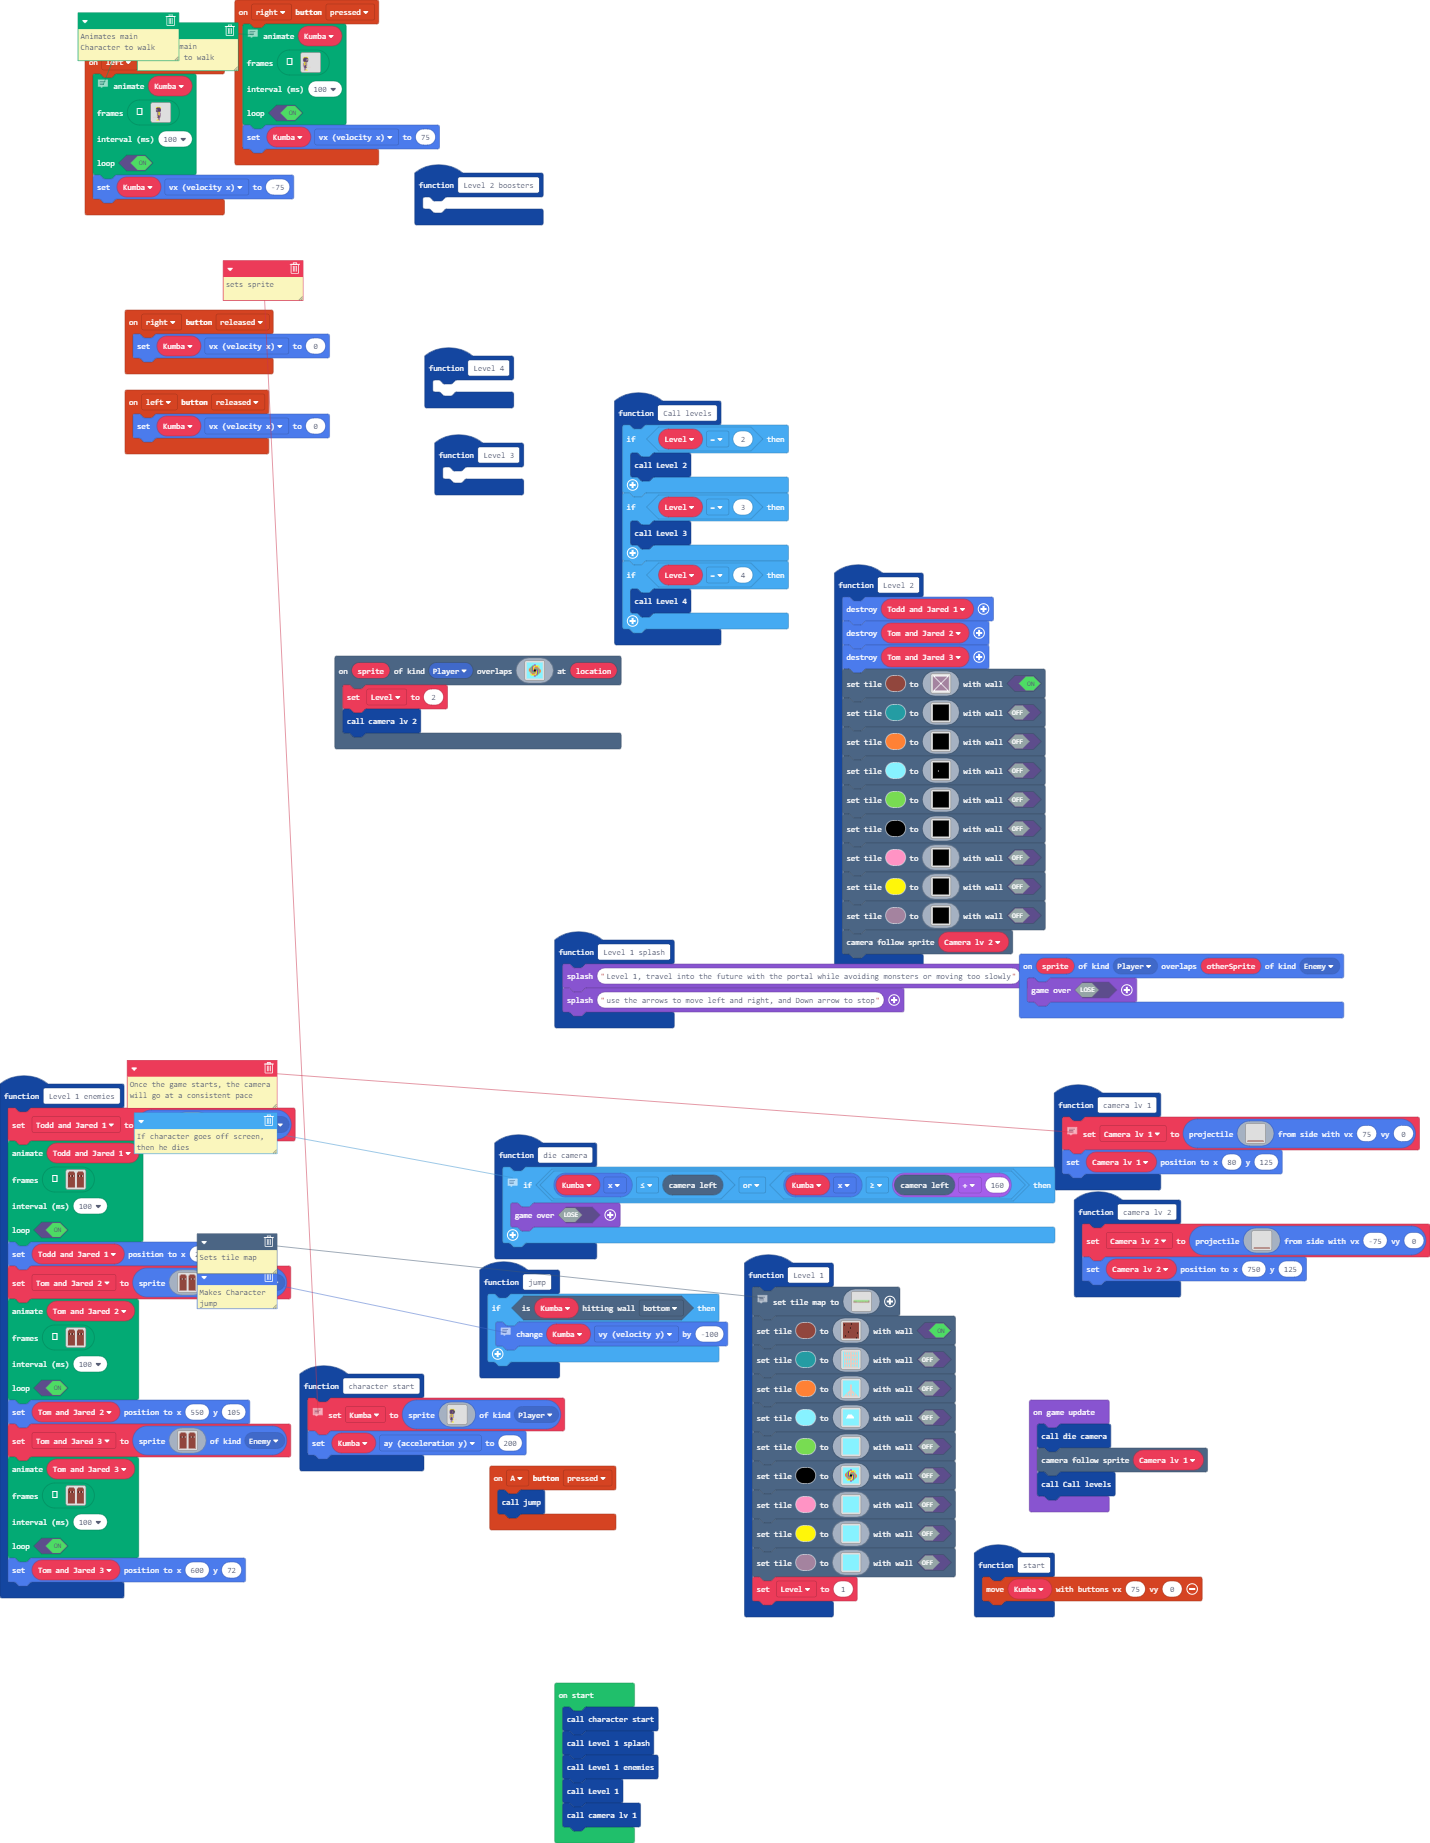
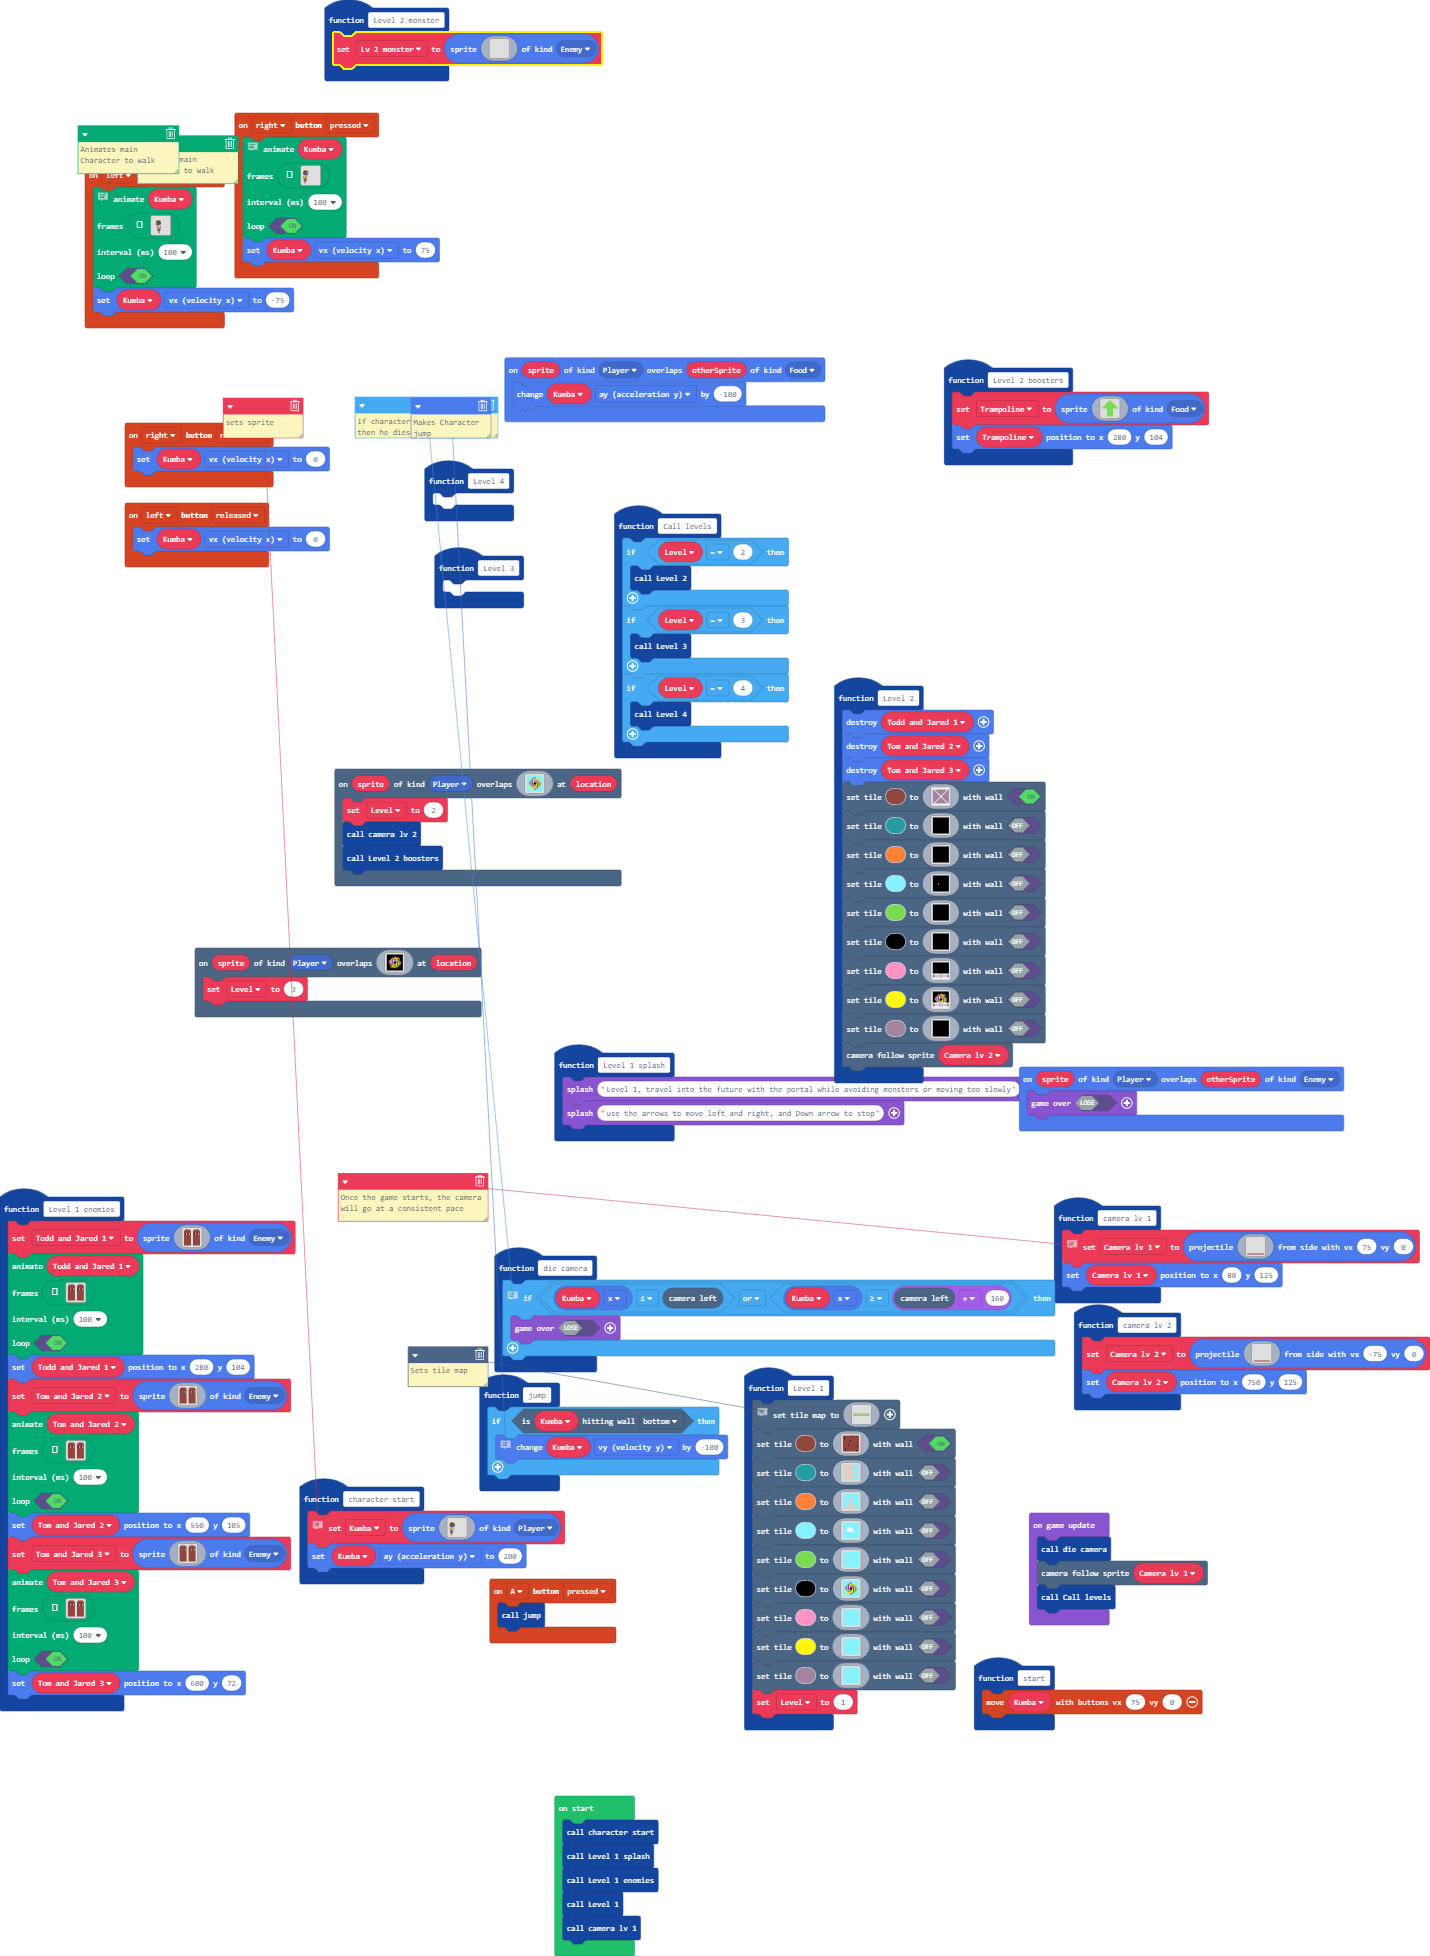
Update main.blocks, main.ts

diff --git a/main.ts b/main.ts
@@ -50,6 +50,26 @@ function die_camera () {
         game.over(false)
     }
 }
+function Level_2_monster () {
+    Lv_2_monster = sprites.create(img`
+. . . . . . . . . . . . . . . . 
+. . . . . . . . . . . . . . . . 
+. . . . . . . . . . . . . . . . 
+. . . . . . . . . . . . . . . . 
+. . . . . . . . . . . . . . . . 
+. . . . . . . . . . . . . . . . 
+. . . . . . . . . . . . . . . . 
+. . . . . . . . . . . . . . . . 
+. . . . . . . . . . . . . . . . 
+. . . . . . . . . . . . . . . . 
+. . . . . . . . . . . . . . . . 
+. . . . . . . . . . . . . . . . 
+. . . . . . . . . . . . . . . . 
+. . . . . . . . . . . . . . . . 
+. . . . . . . . . . . . . . . . 
+. . . . . . . . . . . . . . . . 
+`, SpriteKind.Enemy)
+}
 scene.onOverlapTile(SpriteKind.Player, img`
 9 9 9 9 9 9 9 9 9 9 9 9 9 9 9 9 
 9 9 9 9 9 9 9 9 9 9 9 9 9 9 9 9 
@@ -70,6 +90,7 @@ scene.onOverlapTile(SpriteKind.Player, img`
 `, function (sprite, location) {
     Level = 2
     camera_lv_2()
+    Level_2_boosters()
 })
 function character_start () {
     // sets sprite
@@ -251,6 +272,26 @@ d d d d d d d d 5 f c c c c f . . . . . . . . . . . . . . . . .
     )
     Kumba.vx = -75
 })
+scene.onOverlapTile(SpriteKind.Player, img`
+f f f f f f f f f f f f f f f f 
+f f f f f f f f f f f f f f f f 
+f f f f f f f a a f f f f f f f 
+f f f f f 7 a 5 5 5 5 5 f f f f 
+f f f f 7 a 5 f 4 4 4 f 5 f f f 
+f f f b 7 a 5 4 b b b 4 f f f f 
+f f 4 b 7 a 5 b 7 7 7 b 4 f f f 
+f f 4 b 7 a 5 f f a a 7 b 4 f f 
+f f 4 b 7 a a f f 5 a 7 b 4 f f 
+f f f 4 b 7 7 7 b 5 a 7 b 4 f f 
+f f f f 4 b b b 4 5 a 7 b f f f 
+f f f 5 f 4 4 4 f 5 a 7 f f f f 
+f f f f 5 5 5 5 5 a 7 f f f f f 
+f f f f f f f a a f f f f f f f 
+f f f f f f f f f f f f f f f f 
+f f f f f f f f f f f f f f f f 
+`, function (sprite, location) {
+    Level = 3
+})
 controller.left.onEvent(ControllerButtonEvent.Released, function () {
     Kumba.vx = 0
 })
@@ -378,29 +419,29 @@ f f f f f f f f f f f f f f f f
 f f f f f f f f f f f f f f f f 
 f f f f f f f f f f f f f f f f 
 f f f f f f f f f f f f f f f f 
-f f f f f f f f f f f f f f f f 
-f f f f f f f f f f f f f f f f 
-f f f f f f f f f f f f f f f f 
-f f f f f f f f f f f f f f f f 
-f f f f f f f f f f f f f f f f 
+1 1 1 1 1 1 1 1 1 1 1 1 1 1 1 1 
+b b 1 1 1 1 b b b b 1 1 1 1 b b 
+b b b b b b 1 1 1 1 b b b b b b 
+b b 1 1 1 1 b b b b 1 1 1 1 b b 
+1 1 1 1 1 1 1 1 1 1 1 1 1 1 1 1 
 `, false)
     scene.setTile(5, img`
 f f f f f f f f f f f f f f f f 
 f f f f f f f f f f f f f f f f 
-f f f f f f f f f f f f f f f f 
-f f f f f f f f f f f f f f f f 
-f f f f f f f f f f f f f f f f 
-f f f f f f f f f f f f f f f f 
-f f f f f f f f f f f f f f f f 
-f f f f f f f f f f f f f f f f 
-f f f f f f f f f f f f f f f f 
-f f f f f f f f f f f f f f f f 
-f f f f f f f f f f f f f f f f 
-f f f f f f f f f f f f f f f f 
-f f f f f f f f f f f f f f f f 
-f f f f f f f f f f f f f f f f 
-f f f f f f f f f f f f f f f f 
-f f f f f f f f f f f f f f f f 
+f f f f f f f a a f f f f f f f 
+f f f f f 7 a 5 5 5 5 5 f f f f 
+f f f f 7 a 5 f 4 4 4 f 5 f f f 
+f f f b 7 a 5 4 b b b 4 f f f f 
+f f 4 b 7 a 5 b 7 7 7 b 4 f f f 
+f f 4 b 7 a 5 f f a a 7 b 4 f f 
+f f 4 b 7 a a f f 5 a 7 b 4 f f 
+f f f 4 b 7 7 7 b 5 a 7 b 4 f f 
+f f f f 4 b b b 4 5 a 7 b f f f 
+1 1 1 1 1 1 1 1 1 1 1 1 1 1 1 1 
+b b 1 1 1 1 b b b b 1 1 1 1 b b 
+b b b b b b 1 1 1 1 b b b b b b 
+b b 1 1 1 1 b b b b 1 1 1 1 b b 
+1 1 1 1 1 1 1 1 1 1 1 1 1 1 1 1 
 `, false)
     scene.setTile(11, img`
 f f f f f f f f f f f f f f f f 
@@ -422,14 +463,17 @@ f f f f f f f f f f f f f f f f
 `, false)
     scene.cameraFollowSprite(Camera_lv_2)
 }
+sprites.onOverlap(SpriteKind.Player, SpriteKind.Food, function (sprite, otherSprite) {
+    Kumba.ay += -100
+})
 function Level_1 () {
     // Sets tile map
     scene.setTileMap(img`
-3 7 7 7 7 7 7 7 7 7 7 7 7 7 7 7 7 7 7 7 7 7 7 7 7 7 7 7 7 7 7 7 7 7 7 7 7 7 7 7 7 7 7 9 7 7 7 7 7 7 
-5 9 7 7 7 9 7 7 7 7 7 7 9 7 7 7 7 7 7 7 9 7 7 7 9 7 7 7 7 7 7 7 7 7 7 7 7 7 9 7 9 7 7 7 7 7 9 7 b 7 
-4 7 4 7 7 7 7 7 9 7 4 7 7 7 9 7 7 7 7 7 7 7 7 7 7 7 7 7 7 7 7 9 7 7 9 7 7 7 7 7 7 7 7 9 7 7 7 7 f e 
-6 7 6 7 7 7 7 7 7 7 6 7 7 7 7 7 7 7 7 7 9 7 7 7 7 7 9 7 7 7 7 7 7 7 7 7 7 7 7 9 7 7 7 7 7 7 7 7 e e 
-6 7 6 7 7 7 7 7 7 7 6 7 7 7 7 7 4 7 7 7 7 7 7 7 7 7 7 7 7 7 7 7 7 9 7 7 7 7 7 7 7 7 7 7 7 9 7 e e e 
+7 7 7 7 7 7 7 7 7 7 7 7 7 7 7 7 7 7 7 7 7 7 7 7 7 7 7 7 7 7 7 7 7 7 7 7 7 7 7 7 7 7 7 9 7 7 7 7 7 7 
+5 3 3 3 3 3 3 3 3 3 3 3 3 3 3 3 7 7 7 7 9 7 7 7 9 7 7 7 7 7 7 7 7 7 7 7 7 7 9 7 9 7 7 7 7 7 9 7 7 7 
+7 7 7 7 7 7 7 7 7 7 7 7 7 7 7 7 7 7 7 7 7 7 7 7 7 7 7 7 7 7 7 9 7 7 9 7 7 7 7 7 7 7 7 9 7 7 7 7 7 e 
+4 7 4 7 7 7 7 7 7 7 4 7 7 7 7 7 7 7 7 7 9 7 7 7 7 7 9 7 7 7 7 7 7 7 7 7 7 7 7 9 7 7 7 7 7 7 7 b e e 
+6 7 6 7 7 7 7 7 7 7 6 7 7 7 7 7 4 7 7 7 7 7 7 7 7 7 7 7 7 7 7 7 7 9 7 7 7 7 7 7 7 7 7 7 7 9 f e e e 
 e e e e e e e e 7 7 6 7 7 7 7 7 6 7 7 7 7 7 7 7 7 7 7 7 7 7 e 7 7 7 7 7 e e e 7 7 7 e 7 7 7 e e e e 
 e e e e e e e e e e e e 7 7 7 7 6 7 7 e e e e e e e e e e e e e 7 7 7 e e e e e 7 e e e 7 e e e e e 
 e e e e e e e e e e e e e e e e e e e e e e e e e e e e e e e e e e e e e e e e e e e e e e e e e e 
@@ -1714,7 +1758,25 @@ function Call_levels () {
     }
 }
 function Level_2_boosters () {
-	
+    Trampoline = sprites.create(img`
+. . . . . . . 7 7 . . . . . . . 
+. . . . . . 7 7 7 7 . . . . . . 
+. . . . . 7 7 7 7 7 7 . . . . . 
+. . . . 7 7 7 7 7 7 7 7 . . . . 
+. . . 7 7 7 7 7 7 7 7 7 7 . . . 
+. . 7 7 7 7 7 7 7 7 7 7 7 7 . . 
+. 7 7 7 7 7 7 7 7 7 7 7 7 7 7 . 
+7 7 7 7 7 7 7 7 7 7 7 7 7 7 7 7 
+. . . . . 7 7 7 7 7 7 . . . . . 
+. . . . . 7 7 7 7 7 7 . . . . . 
+. . . . . 7 7 7 7 7 7 . . . . . 
+. . . . . 7 7 7 7 7 7 . . . . . 
+. . . . . 7 7 7 7 7 7 . . . . . 
+. . . . . 7 7 7 7 7 7 . . . . . 
+. . . . . 7 7 7 7 7 7 . . . . . 
+. . . . . 7 7 7 7 7 7 . . . . . 
+`, SpriteKind.Food)
+    Trampoline.setPosition(280, 104)
 }
 function camera_lv_1 () {
     // Once the game starts, the camera will go at a
@@ -1746,10 +1808,12 @@ function Level_3 () {
 	
 }
 let Camera_lv_1: Sprite = null
+let Trampoline: Sprite = null
 let Tom_and_Jared_3: Sprite = null
 let Tom_and_Jared_2: Sprite = null
 let Todd_and_Jared_1: Sprite = null
 let Level = 0
+let Lv_2_monster: Sprite = null
 let Kumba: Sprite = null
 let Camera_lv_2: Sprite = null
 character_start()
